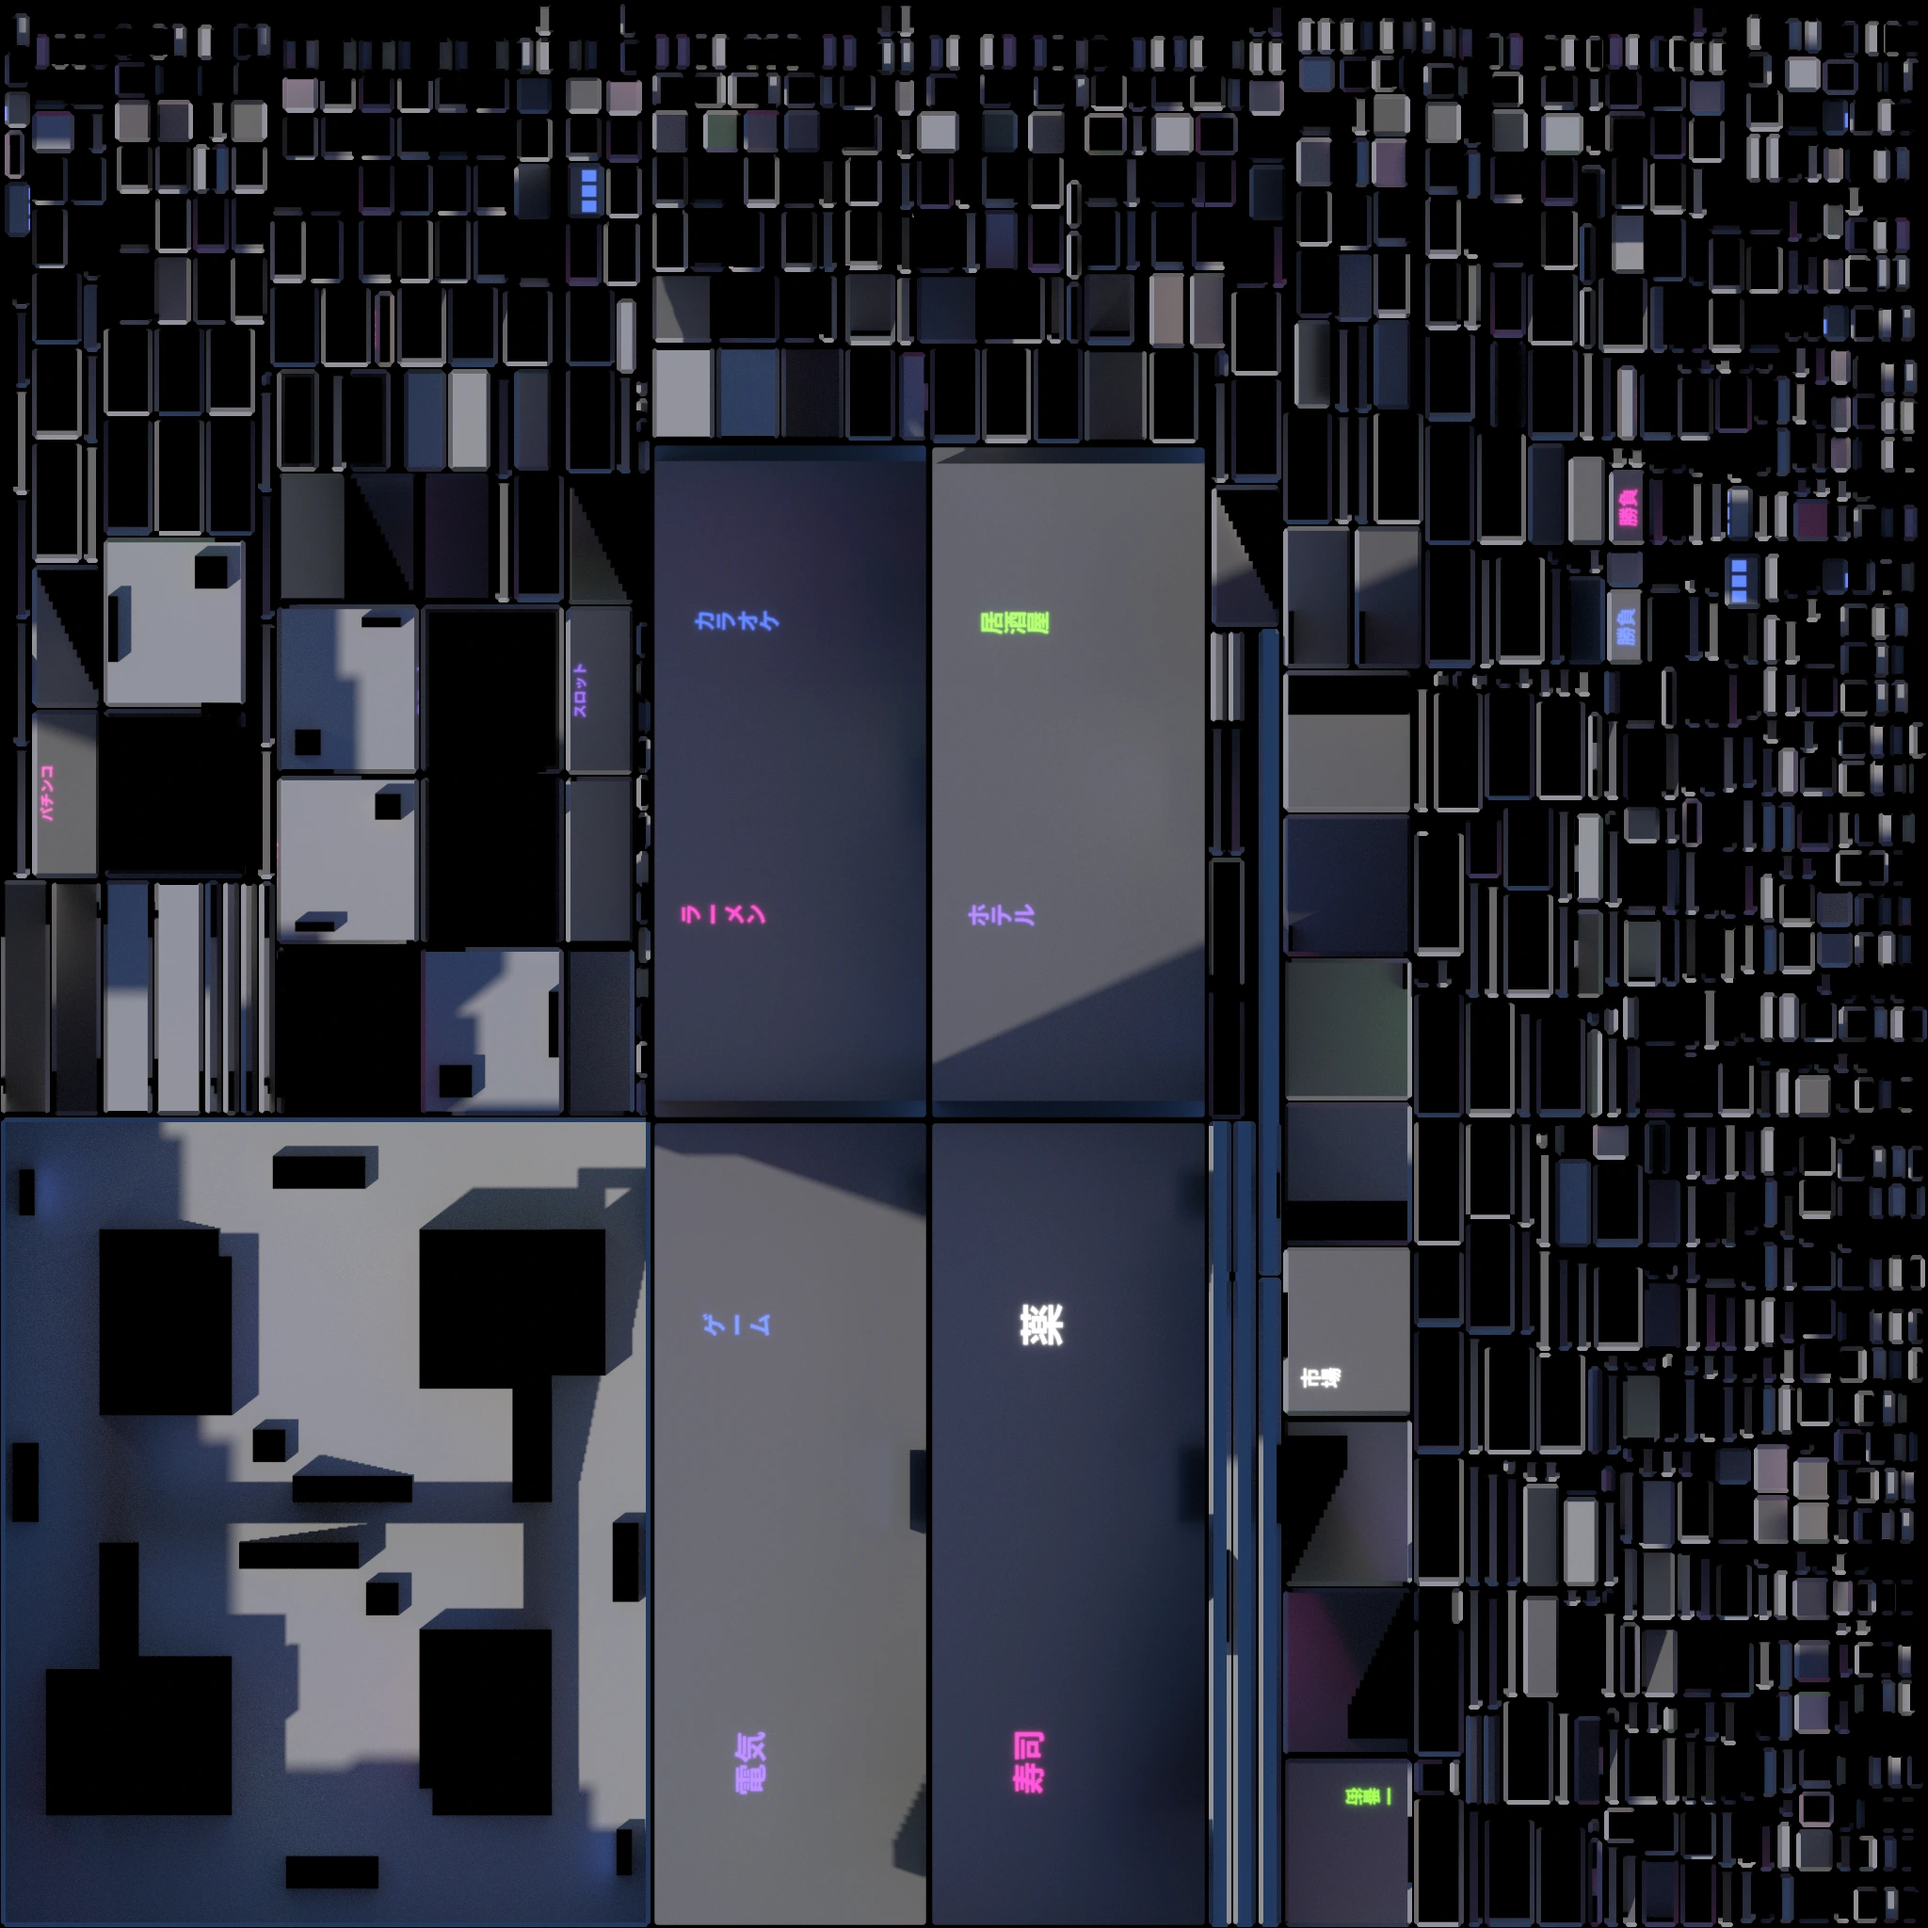
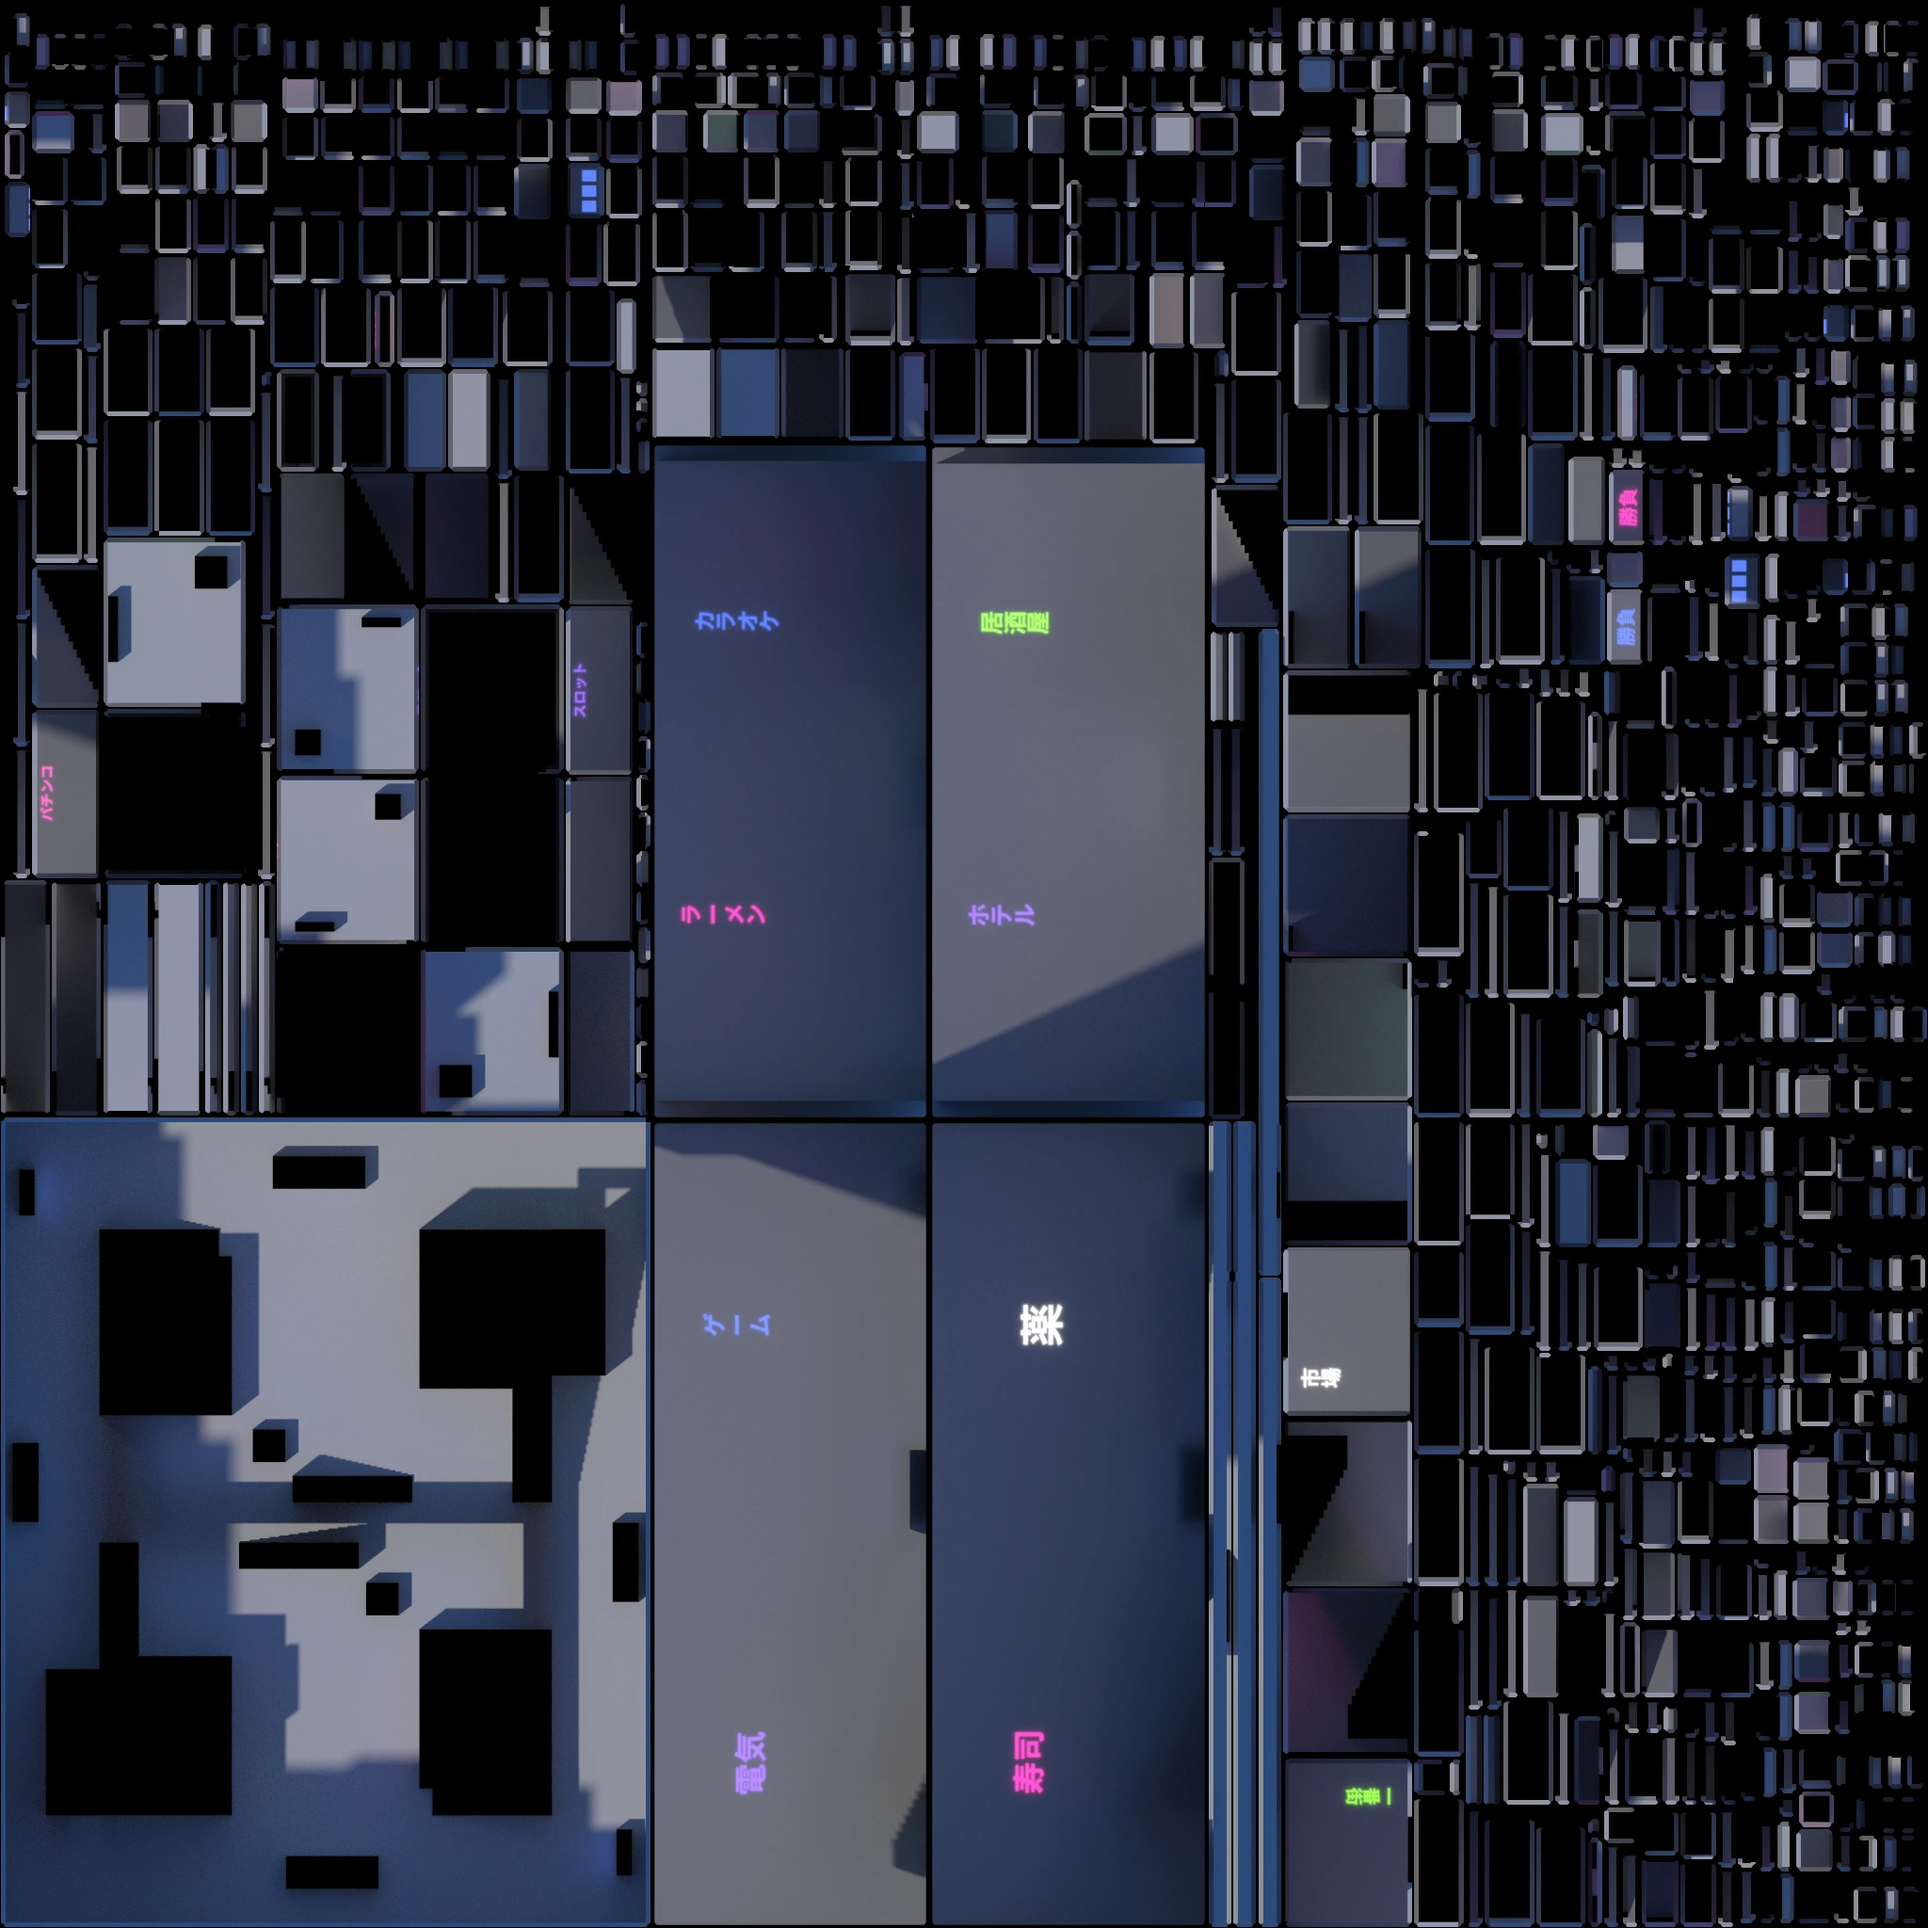
feat: vestir as coberturas e clarear a sombra do bake
Caminhão, contêiner, quiosque, caixa d'água e ar-condicionado ganham
pele rente à caixa; o céu do bake sobe para a sombra ler clara. Medido
no quadro: mediana de 0,19 a 0,37, acima do 0,12 da ADR 0010.

diff --git a/scripts/blender/arena_skin.py b/scripts/blender/arena_skin.py
@@ -67,12 +67,118 @@ def build_skin(layout, materials, collection):
             dress_facade(surfaces, block, materials)
         if block["name"].startswith("maquinas-venda"):
             light_vending_machine(neon, block, materials)
+        dress_cover(surfaces, neon, block, materials)
+        if block["layer"] == "walkway":
+            stripe_walkway(surfaces, block, materials)
     paint_street(surfaces, layout, materials)
     string_wires(surfaces, materials)
     font = load_sign_font()
     GLYPH_EM[0] = glyph_scale(font, collection)
     signs = [hang_sign(sign, font, materials, collection) for sign in SIGNS]
     return surfaces.build("pele", collection), [neon.build("neon-maquinas", collection), *signs]
+
+
+def vertical_planes(block):
+    """As quatro faces verticais de um bloco, como `FacePlane`."""
+    return [FacePlane(*face) for face in box_faces(block["minM"], block["maxM"])]
+
+
+def long_planes(block):
+    """As duas faces verticais mais compridas: os lados de um caminhão ou contêiner."""
+    planes = vertical_planes(block)
+    longest = max(plane.length for plane in planes)
+    return [plane for plane in planes if abs(plane.length - longest) < 1e-6]
+
+
+def dress_cover(surfaces, neon, block, materials):
+    """A pele de cada cobertura, pelo nome. Tudo rente: nada passa da caixa de colisão."""
+    stem = block["name"].rsplit("-", 1)[0]
+    dresser = COVER_DRESSERS.get(stem)
+    if dresser:
+        dresser(surfaces, neon, block, materials)
+
+
+def dress_truck(surfaces, neon, block, materials):
+    dark = materials.surface("vidro")
+    stripe = materials.surface("toldo")
+    for plane in long_planes(block):
+        bottom = block["minM"][1]
+        # a cabine fica na ponta que aponta para longe do centro do mapa: assim
+        # o caminhão gêmeo, girado meia volta, tem a cabine na ponta girada.
+        at_end = plane.start + plane.end < 0
+        cab_low, cab_high = (plane.end - 1.6, plane.end) if at_end else (plane.start, plane.start + 1.6)
+        surfaces.add_quad(plane.rectangle(cab_low + 0.15, cab_high - 0.15, bottom + 1.2, bottom + 1.9, PROUD_M), plane.normal, dark)
+        surfaces.add_quad(plane.rectangle(plane.start + 0.2, plane.end - 0.2, bottom + 0.75, bottom + 0.95, FRAME_PROUD_M), plane.normal, stripe)
+        for wheel in (plane.start + 1.1, plane.start + 2.2, plane.end - 1.1):
+            surfaces.add_quad(plane.rectangle(wheel - 0.45, wheel + 0.45, bottom, bottom + 0.7, PROUD_M), plane.normal, dark)
+
+
+def dress_container(surfaces, neon, block, materials):
+    rib = materials.surface("aco")
+    for plane in long_planes(block):
+        top = block["maxM"][1]
+        along = plane.start + 0.3
+        while along < plane.end - 0.2:
+            low = plane.point(along - 0.05, block["minM"][1], 0)
+            high = plane.point(along + 0.05, top, 0.035)
+            surfaces.add_box(low, high, rib)
+            along += 0.6
+
+
+def dress_kiosk(surfaces, neon, block, materials):
+    awning = materials.surface("toldo")
+    top = block["maxM"][1]
+    for plane in vertical_planes(block):
+        surfaces.add_quad(plane.rectangle(plane.start, plane.end, top - 0.45, top, PROUD_M), plane.normal, awning)
+        middle = (plane.start + plane.end) / 2
+        surfaces.add_quad(plane.rectangle(middle - 0.8, middle + 0.8, 0.9, 1.6, PROUD_M), plane.normal, materials.surface("vidro"))
+
+
+def dress_tank(surfaces, neon, block, materials):
+    band = materials.surface("aco")
+    bottom = block["minM"][1]
+    for plane in vertical_planes(block):
+        for height in (0.5, 1.2, 1.9):
+            surfaces.add_quad(plane.rectangle(plane.start, plane.end, bottom + height, bottom + height + 0.12, PROUD_M), plane.normal, band)
+
+
+def dress_air_conditioner(surfaces, neon, block, materials):
+    grill = materials.surface("vidro")
+    bottom = block["minM"][1]
+    for plane in long_planes(block):
+        middle = (plane.start + plane.end) / 2
+        surfaces.add_quad(plane.rectangle(middle - 0.7, middle + 0.7, bottom + 0.5, bottom + 1.8, PROUD_M), plane.normal, grill)
+
+
+def dress_rooftop_sign(surfaces, neon, block, materials):
+    bottom = block["minM"][1]
+    for plane in long_planes(block):
+        surfaces.add_quad(plane.rectangle(plane.start + 0.1, plane.end - 0.1, bottom + 0.9, bottom + 2.0, PROUD_M), plane.normal, materials.neon("violeta"))
+
+
+COVER_DRESSERS = {
+    "caminhao": dress_truck,
+    "conteiner": dress_container,
+    "quiosque": dress_kiosk,
+    "caixa-dagua": dress_tank,
+    "ar-condicionado": dress_air_conditioner,
+    "letreiro": dress_rooftop_sign,
+}
+
+
+def stripe_walkway(surfaces, block, materials):
+    """Faixa clara na borda da passarela: de longe, é ela que diz onde o chão acaba."""
+    low, high = block["minM"], block["maxM"]
+    white = materials.surface("faixa")
+    along_x = (high[0] - low[0]) >= (high[2] - low[2])
+    width = 0.18
+    top = high[1] + DECAL_M
+    if along_x:
+        add_decal(surfaces, (low[0], low[2], high[0], low[2] + width), top, white)
+        add_decal(surfaces, (low[0], high[2] - width, high[0], high[2]), top, white)
+    else:
+        add_decal(surfaces, (low[0], low[2], low[0] + width, high[2]), top, white)
+        add_decal(surfaces, (high[0] - width, low[2], high[0], high[2]), top, white)
 
 
 def load_sign_font():

diff --git a/scripts/blender/build_arena.py b/scripts/blender/build_arena.py
@@ -47,8 +47,10 @@ DEFAULTS = {
 
 # força do sol e do céu no bake. O valor absoluto não importa — a exposição é
 # normalizada depois — mas a **razão** entre os dois é o contraste de sombra.
+# O céu subiu de 0,9 para 1,7 quando o beco leste, à sombra do casco e das
+# torres de nordeste, saiu quase preto no jogo: a sombra do valorant é clara.
 SUN_STRENGTH = 3.0
-SKY_STRENGTH = 0.9
+SKY_STRENGTH = 1.7
 
 
 def load_layout(path):

diff --git a/docs/asset-licenses.md b/docs/asset-licenses.md
@@ -412,8 +412,8 @@ aposentou.
 
 | asset | origem | licença | medido |
 |---|---|---|---|
-| `packages/client/public/assets/arena/ichiban-gai.glb` | autoral, gerado por `npm run build:arena-art` a partir de `ichibanGai.ts` | do projeto | 629.912 B, 22.320 triângulos |
-| `packages/client/public/assets/arena/ichiban-gai-lightmap.webp` | autoral, bake do cycles no mesmo build | do projeto | 326.436 B, 2048² |
+| `packages/client/public/assets/arena/ichiban-gai.glb` | autoral, gerado por `npm run build:arena-art` a partir de `ichibanGai.ts` | do projeto | 654.476 B, 22.968 triângulos |
+| `packages/client/public/assets/arena/ichiban-gai-lightmap.webp` | autoral, bake do cycles no mesmo build | do projeto | 306.528 B, 2048² |
 | glifos dos letreiros, dentro do glb | [Noto Sans CJK JP](https://github.com/notofonts/noto-cjk) Bold, lida de `/usr/share/fonts/noto-cjk/` | **SIL OFL 1.1** | só os caracteres dos letreiros, convertidos em malha |
 
 A [ADR 0010](adr/0010-arena-estilo-valorant-de-dia.md) põe a arte da arena no
